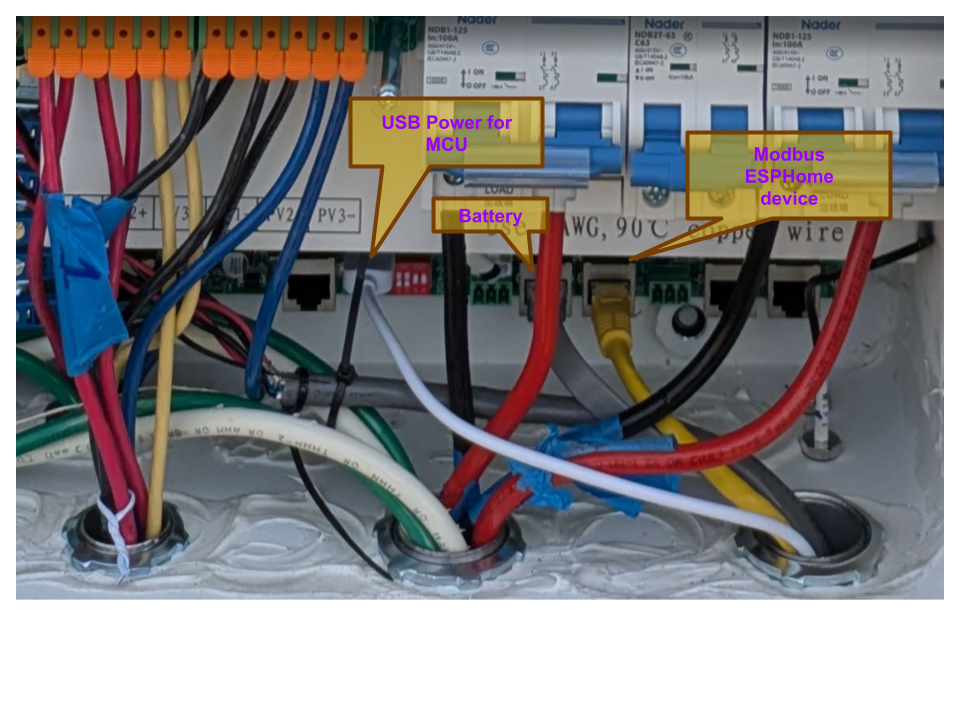
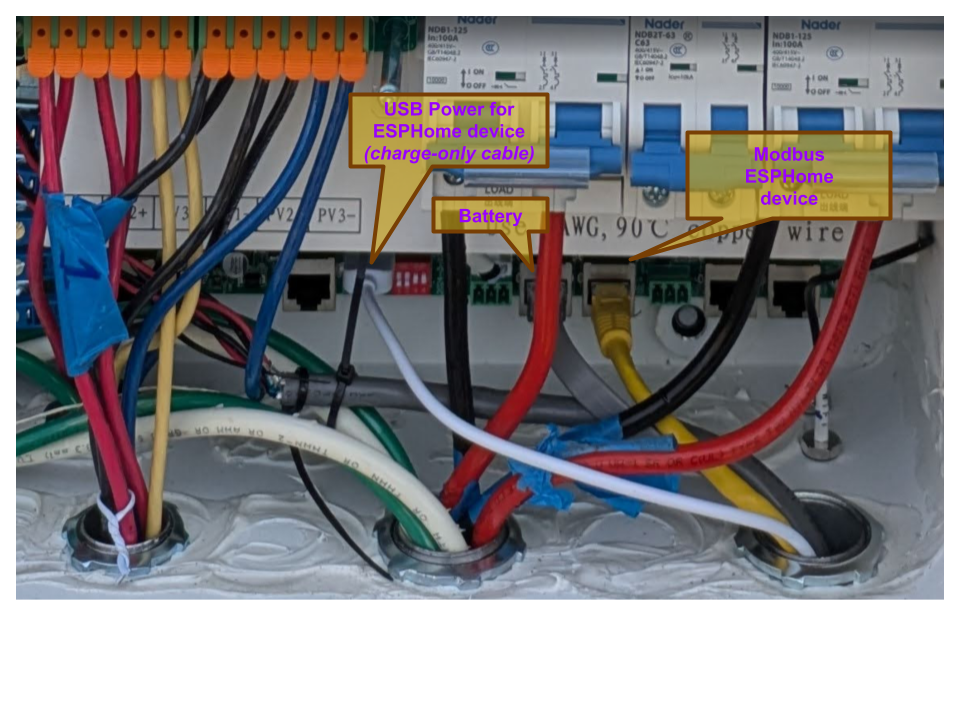
Revisions suggested by @elmoret

Changed region(s): [[0.3438, 0.1222, 0.5938, 0.3667]]

diff --git a/README.md b/README.md
@@ -37,10 +37,12 @@ With both in place, 50 sensors can be polled at 5s interval without any modbus e
 # Connections
 
 The `CN4` (Upper Computer) connection is used on the SPH10000TL-HU-US
+
+The USB port intended for software upgrades can be used to power the
+ESPHome device (use a power-only USB cable, not a data cable)
+
 ![connections-sph1000tl-hu-us-b.png](readme/connections-sph1000tl-hu-us-b.png)
 
-The USB port intended for software upgrades can be used to power the 
-ESPHome device (use a power-only USB cable, not a data cable)
 
 # Software Requirements
 
@@ -66,9 +68,9 @@ ESPHome device (use a power-only USB cable, not a data cable)
 Manually Created Dashboard
 ![Example Visualization](readme/ha-graphs-example1.png)
 
-Misc values |  More Values
-:-------------------------:|:-------------------------:
-![Example Data Values](readme/ha-overview-example1.png) | ![Example Data Values](readme/ha-overview-example4.png)
+|                       Misc values                       |                       More Values                       |
+|:-------------------------------------------------------:|:-------------------------------------------------------:|
+| ![Example Data Values](readme/ha-overview-example1.png) | ![Example Data Values](readme/ha-overview-example4.png) |
 
 # References
 
